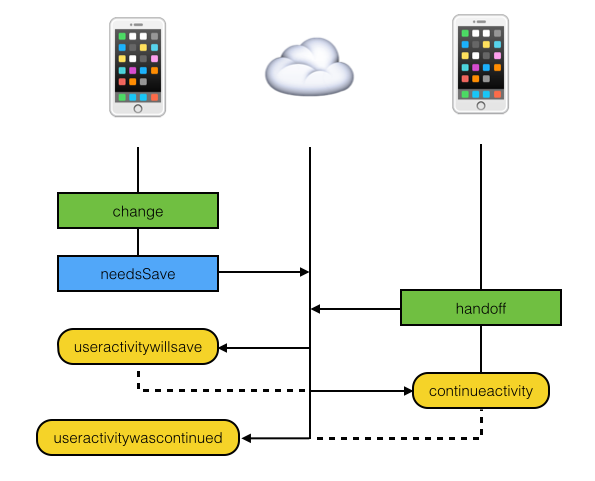
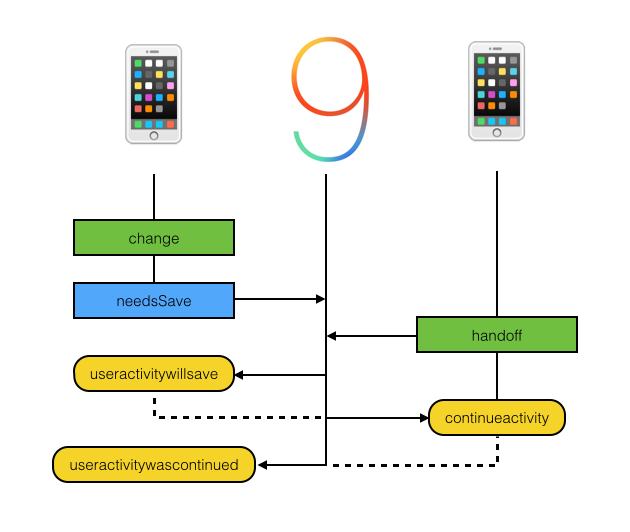
first version of sample done

diff --git a/app/controllers/needsSave.js b/app/controllers/needsSave.js
@@ -20,18 +20,19 @@ var activity;
 function onContinueactivity(e) {
 
 	// We only respond to the writing activity
-	if (e.activityType !== 'com.appcelerator.sample.handoff.userinfo') {
+	if (e.activityType !== 'com.appcelerator.sample.handoff.needssave') {
 		return;
 	}
 
 	log.args('Ti.App.iOS:continueactivity', e);
 
-	updateStatus('the continueactivity event was fired after continuing an activity from search or another device. The message should be updated with that of the search index or other device. (see logs for details)');
+	updateStatus('the continueactivity event was fired after continuing this activity from another device. The fields should be updated with that of the other device. See Console for details.');
 
 	// Make our tab active
 	$.tab.active = true;
 
-	// Update the body with the state of the user activity as it was handed off
+	// Update our content with activity handed off to us
+	$.win.title = e.title || '(untitled)';
 	$.title.value = e.title;
 	$.body.value = e.userInfo.body;
 }
@@ -47,11 +48,11 @@ function createUserActivity() {
 	var parameters = {
 
 		// This value needs to be defined in tiapp.xml
-		activityType: 'com.appcelerator.sample.handoff.userinfo',
+		activityType: 'com.appcelerator.sample.handoff.needssave',
 
-		title: 'New Document', // or take from TextField? Can we update it?
+		title: $.title.value,
 
-		// We'll receive this information when the activity is continued via handoff
+		// Custom payload a device will receive when it continues our activity
 		userInfo: {
 			body: $.body.value
 		}
@@ -61,10 +62,10 @@ function createUserActivity() {
 
 	log.args('Ti.App.iOS.createUserActivity()', parameters);
 
-	// Listen to event fired if the activity context needs to be saved before being continued on another device
+	// Listen to event fired before our activity is continued on another device so we can update its state.
 	activity.addEventListener('useractivitywillsave', onUseractivitywillsave);
 
-	// Listen to event fired when the user activity was continued on another device.
+	// Listen to event fired when our activity was continued on another device.
 	activity.addEventListener('useractivitywascontinued', onUseractivitywascontinued);
 
 	// Check if the user's OS version supports user activities
@@ -74,7 +75,7 @@ function createUserActivity() {
 		activity.becomeCurrent();
 
 	} else {
-		log.args('Did not call becomeCurrent() because activity.supported is:', activity.supported);
+		$.status.text = 'Your iOS version does not support this activity.';
 	}
 }
 
@@ -94,7 +95,7 @@ function invalidateActivity() {
 	activity.invalidate();
 	activity = null;
 
-	log.args('Ti.App.iOS.UserActivity#userInfo.invalidate()');
+	log.args('Ti.App.iOS.UserActivity#needsSave.invalidate()');
 }
 
 /**
@@ -103,7 +104,7 @@ function invalidateActivity() {
 function onUseractivitywillsave(e) {
 	log.args('Ti.App.iOS.UserActivity:useractivitywillsave', e);
 
-	updateStatus('the useractivitywillsave event was fired after setting needsSave to true. (see logs for details)');
+	updateStatus('the useractivitywillsave event was fired. See Console for details.');
 
 	activity.title = $.title.value;
 
@@ -111,7 +112,10 @@ function onUseractivitywillsave(e) {
 		body: $.body.value
 	};
 
-	log.args('Updated activity.userInfo.body:', activity.userInfo.body);
+	log.args('Updated activity:', {
+		title: activity.title,
+		userInfo: activity.userInfo
+	});
 }
 
 /**
@@ -120,17 +124,19 @@ function onUseractivitywillsave(e) {
 function onUseractivitywascontinued(e) {
 	log.args('Ti.App.iOS.UserActivity:useractivitywascontinued', e);
 
-	updateStatus('the useractivitywascontinued event was fired after continuing this activity on another device. The body on the other device should now be what you had up here. (see logs for details)');
+	updateStatus('the useractivitywascontinued event was fired after continuing this activity on another device. The fields on the other device should now be updated with what you had up here. See Console for details.');
 }
 
 function onChanges(e) {
 
-	$.win.title = $.title.value;
+	$.win.title = $.title.value || '(untitled)';
 
 	// Every (appropriate) time you set this to true the activity will receive
 	// the useractivitywillsave event where you can then update the activity so
 	// that when handed off, the other devices has the most recent information.
 	activity.needsSave = true;
+
+	log.args('Updated needsSave: true');
 }
 
 /**

diff --git a/app/controllers/webpageURL.js b/app/controllers/webpageURL.js
@@ -25,7 +25,7 @@ function onContinueactivity(e) {
 
 	log.args('Ti.App.iOS:continueactivity', e);
 
-	updateStatus('the continueactivity event was fired after continuing this activity from another device.');
+	updateStatus('the continueactivity event was fired after continuing this activity from another device. See Console for details.');
 
 	// Make our tab active
 	$.tab.active = true;
@@ -44,14 +44,16 @@ function createUserActivity() {
 		// This value needs to be defined in tiapp.xml
 		activityType: 'com.appcelerator.sample.handoff.webpageurl',
 
-		webpageURL: 'https://github.com/appcelerator-developer-relations/appc-sample-handoff'
+		title: 'webpageURL',
+
+		webpageURL: 'https://github.com/appcelerator-developer-relations/appc-sample-handoff/blob/master/app/controllers/webpageURL.js'
 	};
 
 	activity = Ti.App.iOS.createUserActivity(parameters);
 
 	log.args('Ti.App.iOS.createUserActivity()', parameters);
 
-	// Listen to event fired when the user activity was continued on another device.
+	// Listen to event fired when our activity was continued on another device
 	activity.addEventListener('useractivitywascontinued', onUseractivitywascontinued);
 
 	// Check if the user's OS version supports user activities
@@ -61,7 +63,7 @@ function createUserActivity() {
 		activity.becomeCurrent();
 
 	} else {
-		log.args('Did not call becomeCurrent() because activity.supported is:', activity.supported);
+		$.status.text = 'Your iOS version does not support this activity.';
 	}
 }
 
@@ -75,6 +77,8 @@ function invalidateActivity() {
 		return;
 	}
 
+	activity.removeEventListener('useractivitywascontinued', onUseractivitywascontinued);
+
 	activity.invalidate();
 	activity = null;
 
@@ -87,7 +91,7 @@ function invalidateActivity() {
 function onUseractivitywascontinued(e) {
 	log.args('Ti.App.iOS.UserActivity:useractivitywascontinued', e);
 
-	updateStatus('the useractivitywascontinued event was fired after continuing this activity on another device.');
+	updateStatus('the useractivitywascontinued event was fired after continuing this activity on another device. See Console for details.');
 }
 
 function updateStatus(text) {

diff --git a/app/controllers/watch.js b/app/controllers/watch.js
@@ -22,7 +22,7 @@ function onContinueactivity(e) {
 
 	log.args('Ti.App.iOS:continueactivity', e);
 
-	updateStatus('the continueactivity event was fired after continuing an activity from Apple Watch. See the logs for the payload.');
+	updateStatus('the continueactivity event was fired after continuing an activity from Apple Watch. See Console for details.');
 
 	// Make our tab active
 	$.tab.active = true;

diff --git a/extensions/Handoff/Handoff WatchApp Extension/InterfaceController.m b/extensions/Handoff/Handoff WatchApp Extension/InterfaceController.m
@@ -29,7 +29,7 @@
     // Publish the activity of watching our WatchApp
     [self updateUserActivity:@"com.appcelerator.sample.handoff.watching"
                     userInfo:@{@"foo":@"bar"}
-                  webpageURL:[NSURL URLWithString:@"http://www.appcelerator.com"]];
+                  webpageURL:[NSURL URLWithString:@"https://github.com/appcelerator-developer-relations/appc-sample-handoff/blob/master/extensions/Handoff/Handoff%20WatchApp%20Extension/InterfaceController.m"]];
 }
 
 - (void)didDeactivate {

diff --git a/README.md b/README.md
@@ -1,15 +1,3 @@
-- https://developer.apple.com/library/ios/documentation/UserExperience/Conceptual/Handoff
-- https://developer.apple.com/library/prerelease/ios/documentation/Foundation/Reference/NSUserActivity_Class/
-- http://docs.appcelerator.com/platform/latest/#!/guide/Handoff_User_Activities
-
-
-- https://developer.apple.com/library/ios/documentation/UserExperience/Conceptual/Handoff/AdoptingHandoff/AdoptingHandoff.html#//apple_ref/doc/uid/TP40014338-CH2-SW10
-- Handoff is device to device, not via cloud (see image)
-
-When the system needs the activity to be updated, such as before the activity is continued on another device, it calls the delegate’s userActivityWillSave: method. You can implement this callback to make updates to the object’s data-bearing properties such as userInfo, title, and so on. Once the system calls this method, it resets needsSave to NO. Change this value to YES if something happens that changes the userInfo or other data-bearing properties again.
-
-
-
 # iOS Handoff Sample App
 
 This sample app demonstrates how to use Handoff introduced in iOS 8 and supported by Titanium 5.0. Handoff lets you start using an application, such as editing a document, on one device, then transfer to another device to continue working on it.
@@ -22,33 +10,143 @@ For the complete details on how exactly Handoff works and how you can implement 
 
 ## Handoff scenarios
 
-* Handoff iOS app to iOS app
-* Handoff iOS app to Web Browser (including desktop)
-* [Handoff Web Browser to iOS app](https://developer.apple.com/library/ios/documentation/UserExperience/Conceptual/Handoff/AdoptingHandoff/AdoptingHandoff.html#//apple_ref/doc/uid/TP40014338-CH2-SW10)
-* [Handoff Apple Watch App to iOS App or Web Browser](https://developer.apple.com/library/ios/documentation/General/Conceptual/WatchKitProgrammingGuide/iOSSupport.html)
-* [Handoff Apple Watch Glance to Apple Watch App](https://developer.apple.com/library/ios/documentation/General/Conceptual/WatchKitProgrammingGuide/TheGlanceController.html#//apple_ref/doc/uid/TP40014969-CH16-SW4)
+Handoff is not just about continuity between two identical apps on two iOS devices. There are many other scenarios, including handoff between an Native App and Web Browser where *Native App* can be either an iOS or Max OS X App.
 
-### Updating an activity's state for Handoff
-Our sample app has another *UserActivity* tab to demonstrate another feature related to Handoff. While viewing information on one of the Beatles is as static as it gets, handoff is often used for activities that do change, like starting an email on your iPhone and continue it on your iPad.
+1. [Handoff Native App to Native app](https://developer.apple.com/library/ios/documentation/UserExperience/Conceptual/Handoff/AdoptingHandoff/AdoptingHandoff.html#//apple_ref/doc/uid/TP40014338-CH2-SW3)
+2. [Handoff Native App to Web Browser](https://developer.apple.com/library/ios/documentation/UserExperience/Conceptual/Handoff/AdoptingHandoff/AdoptingHandoff.html#//apple_ref/doc/uid/TP40014338-CH2-SW21)
+3. [Handoff Web Browser to Native App](https://developer.apple.com/library/ios/documentation/UserExperience/Conceptual/Handoff/AdoptingHandoff/AdoptingHandoff.html#//apple_ref/doc/uid/TP40014338-CH2-SW10)
+4. [Handoff Apple Watch App to Native App or Web Browser](https://developer.apple.com/library/ios/documentation/General/Conceptual/WatchKitProgrammingGuide/iOSSupport.html)
+5. [Handoff Apple Watch Glance to Apple Watch App](https://developer.apple.com/library/ios/documentation/General/Conceptual/WatchKitProgrammingGuide/TheGlanceController.html#//apple_ref/doc/uid/TP40014969-CH16-SW4)
 
-At first sight the [useractivity.js](app/controllers/useractivity.js) controller is very similar to [detail.js](app/controllers/detail.js). Notice that time we did not use a *SearchableItemAttributeSet* to describe our activity but used the [subset of descriptors](http://docs.appcelerator.com/platform/latest/#!/api/Titanium.App.iOS.UserActivity-property-keywords) available directly via the UserActivity object. Search for *appsearch* in Spotlight and you should still find the activity but with no description or custom image this time.
+This sample will cover scenarios 1, 2 and 4 for iOS Apps only. Follow the links for Apple guides on the other two scenarios.
 
-Every time you make a change to the message in the TextArea, [we set](app/controllers/useractivity.js#L166) the activity's `needsSave` property to `true` to tell iOS we want to be able to update the activity state before it might be handed off to another device. For this, we've added a listener to the activity's `useractivitywillsave` event which you can find near [line #120](app/controllers/useractivity.js#L120). Here we simply update the `userInfo` property.
+## Handoff flowchart
 
-> **NOTE:** Just like `Ti.UI.View.font` you need to set the full `userInfo` object.
-
-Just like we did for the Beatles we receive the handoff on the other by listening to the `continueactivity` event on [lines 18-42](app/controllers/useractivity.js#L18). Finally, the activity on the first device will receive the `useractivitywascontinued` event. This where you'd inform the user or maybe even lock the view to prevent further changes ([lines 140-146](app/controllers/useractivity.js#L140)).
-
-They say a picture says more then 1000 lines of code:
+They say a flowchart says more then 1000 lines of code:
 
 ![flowchart](docs/flowchart.png)
 
-Give it a try! Install the sample app on two iOS 8+ devices, change the message on the first one, then double tap home or lock the other to request a handoff and continue the message there.
+The above figure shows how every time a change requires the activity state to be updated, its `needsSave` property must be set to `true`. It is then up to iOS when it will fire the `useractivitywillsave` event, but this should at least happen directly after you've called the activity's `becomeCurrent()` method and before it is handed off to another device. This allows you actually update the activity's `title`, `userInfo` and `webpageURL` properties. iOS will then fire the `continueactivity` event on the device that requested the Handoff, followed by `useractivitywascontinued` on the sending device. If your activity's state doesn't change while it is current, you only have to implement the `continueactivity` event.
 
-## Web Markup & Universal Links
-Since our sample is not in the App Store I cannot demonstrate [how to combine](https://developer.apple.com/library/prerelease/ios/documentation/General/Conceptual/AppSearch/CombiningAPIs.html#//apple_ref/doc/uid/TP40016308-CH10-SW1) the UserActivity and Spotlight APIs with Web Markup and Universal Links. Fortunately, Apple has a [excellent guide](https://developer.apple.com/library/prerelease/ios/documentation/General/Conceptual/AppSearch/WebContent.html) on this topic. As discussed, our sample *does* show how to link a User Activity with a Spotlight item using `relatedUniqueIdentifier` and how to link both to a web activity using `webpageURL`. The rest... is up to you!
+> **NOTE:** Since iOS 9 GA I've seen that although I updated an activity via `useractivitywillsave` the payload received via `continueactivity` still contained the previous state. This seems like a change/bug introduced after the last GM.
 
-When you're done, use the [App Search API Validation Tool](https://search.developer.apple.com/appsearch-validation-tool).
+## iOS App to iOS App
+
+The [needsSave](app/controllers/needsSave.js) tab demonstrates the use of the `needsSave` property and `useractivitywillsave` event to update the activity state before it is handed off to the same iOS app on another device.
+
+### Creating and invalidating the activity
+
+Open the [view](app/views/needsSave.xml) to see that we create and call `becomeCurrent()` on the user activity when the window (tab) receives focus and invalidate the activity when it looses focus.
+
+A short version of the [controller code](app/controllers/needsSave.js#L40) starting around line 40:
+
+	activity = Ti.App.iOS.createUserActivity({
+		activityType: 'com.appcelerator.sample.handoff.needssave',
+		title: $.title.value,
+		userInfo: {
+			body: $.body.value
+		}
+	});
+	
+	activity.addEventListener('useractivitywillsave', onUseractivitywillsave);
+	activity.addEventListener('useractivitywascontinued', onUseractivitywascontinued);
+
+	if (activity.supported) {
+		activity.becomeCurrent();
+	}
+
+The above code will publish your activity to all connected iOS and Mac OS X devices.
+
+> **NOTE:** The activityType is usually a reverse company (if you handoff between different apps) or app domain plus a present continuous verb and needs to be registered in the [tiapp.xml](tiapp.xml#L20)'s `<ios><plist><dict>` section.
+	
+### Sending for Handoff
+The two event listeners we added in the previous snippet are optional, but allow us to prepare our activity before it is handed off and handle stuff afterwards.
+
+You can find the related code starting at [line 100](app/controllers/needsSave.js#L100). You can change the activity's `title`, `userInfo` and `webpageURL` properties.
+
+	function onUseractivitywillsave(e) {
+		activity.title = $.title.value;
+		activity.userInfo = {
+			body: $.body.value
+		};
+	}
+
+> **NOTE:** Just like `Ti.UI.View.font` you need to set the full `userInfo` object.
+
+### Receiving a Handoff
+On the other end we need to listen to the global `Ti.App.iOS:continueactivity` event which will fire for all continued actives as well when the user opens a Spotlight result for the app.
+
+As you can see in the first lines of the [controller](app/controllers/needsSave.js) this means we have to check for the `activityType` we want to act on. In this case we we make our tab active and update the fields with the received activity state:
+
+	Ti.App.iOS.addEventListener('continueactivity', onContinueactivity);
+	
+	function onContinueactivity(e) {
+
+		if (e.activityType !== 'com.appcelerator.sample.handoff.needssave') {
+			return;
+		}
+	
+		$.tab.active = true;
+	
+		$.win.title = e.title || '(untitled)';
+		$.title.value = e.title;
+		$.body.value = e.userInfo.body;
+	}
+
+### Try it out!
+To test this scenario, install the sample on two iOS devices that meet [Apple's requirements](https://support.apple.com/en-us/HT204681). Now change the fields on the first device. Then double tap home (iOS 9) or lock the other device to see the Handoff bar or icon appear. Tap it and the app should open and update the fields using the received activity state.
+
+![screenshot](docs/handoff.png)
+
+## iOS App to Web Browser
+The [webpageURL](app/controllers/webpageURL.js) tab demonstrates the use of the `webpageURL` property to support Handoff from an iOS app to a Web Browser on another iOS or Mac OS X device.
+
+Again, we create and invalidate a user activity in the same way as our previous tab. This time we don't use the `userInfo` and `needsSave` properties or the `useractivitywillsave` event because our activity state won't change.
+
+We do set the `webpageURL` property to the GitHub URL for the controller's source code. We also listen to the `useractivitywascontinued` event to demonstrate that even when you continue an activity in a Web Browser the app will still be notified. the browser however will **not** receive any information on the activity so all information you need must be in the URL.
+
+### Try it out!
+To test this scenario, install the sample on an iOS device and navigate to the *webpageURL* tab. On other iOS devices that do not have the iOS app you should see the Handoff bar or icon appear. This time it will have the icon and name of your default browser - *Safari* on iOS. Tap it to open the URL.
+
+![screenshot](docs/handoff_ios_safari.png)
+
+On Mac OS X devices that meet [Apple's requirements](https://support.apple.com/en-us/HT204681) you should see the default browser's icon in a special Handoff extension to the Dock. A small icon indicates that it comes from an iOS device. Click to open the URL.
+
+![screenshot](docs/handoff_ios_mac.png)
+
+## Apple Watch App to iOS App or Web Browser
+The [WatchApp](app/controllers/watch.js) tab and the bundled [WatchApp Extension](extensions/Handoff/Handoff WatchApp Extension/InterfaceController.m) demonstrates Handoff from an Apple Watch App to an iOS App or Web Browser on another iOS or Mac OS X device.
+
+### Creating an activity in the WatchApp
+This time we don't create an activity in the iOS app but in the bundled extension. Just [Apple's reference](https://developer.apple.com/library/ios/documentation/WatchKit/Reference/WKInterfaceController_class/index.html#//apple_ref/occ/instm/WKInterfaceController/updateUserActivity:userInfo:webpageURL:) to create and invalidate an activity when the WatchApp activates and deactivates, as shown in our [InterfaceController](extensions/Handoff/Handoff WatchApp Extension/InterfaceController.m).
+
+	- (void)willActivate {
+	    [super willActivate];
+	    
+	    [self updateUserActivity:@"com.appcelerator.sample.handoff.watching"
+	                    userInfo:@{@"foo":@"bar"}
+	                  webpageURL:[NSURL URLWithString:@"https://github.com/appcelerator-developer-relations/appc-sample-handoff/blob/master/extensions/Handoff/Handoff%20WatchApp%20Extension/InterfaceController.m"]];
+	}
+	
+	- (void)didDeactivate {
+	    [super didDeactivate];
+	    
+	    [self invalidateUserActivity];
+	}
+
+> **NOTE:** I use Objective-C, but the reference shows you how to do it in Swift.
+
+### Receiving the Handoff in the iOS App
+All we do in the [watch.js](app/controllers/watch.js) controller is again listen to the global `Ti.App.iOS:continueactivity` event and check for the `activityType` that we've set in the WatchApp. In this case we simply log the payload and display a message.
+
+### Receiving the Handoff in a Web Browser
+The paired iOS device of course has the app installed, but any other iOS or Mac OS X device that meets [Apple's requirements](https://support.apple.com/en-us/HT204681) will be able to open the activity in the Web Browser because we've set the `webpageURL` to the source code of the interface controller on GitHub.
+
+![screenshot](docs/handoff_watch_ios.png)
+
+As you can see on the Mac the small icon now shows an Apple Watch:
+
+![screenshot](docs/handoff_watch_mac.png)
 
 ## Links
 
